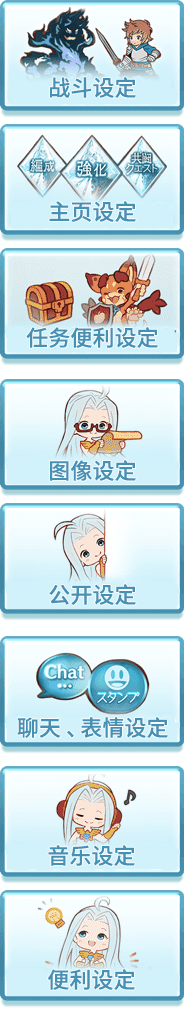
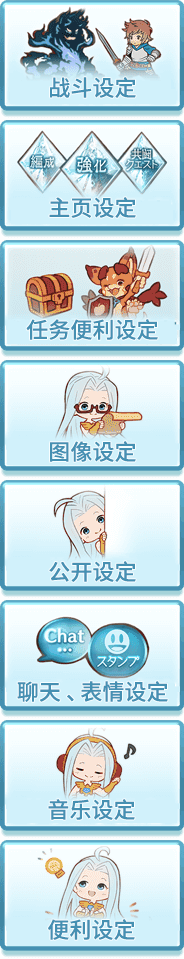
update

diff --git a/data/static/style/BLHXFY.css b/data/static/style/BLHXFY.css
@@ -564,3 +564,11 @@ body #cnt-room-index .prt-room-members .prt-view-menu .prt-global-chat-log .btn-
   background: url(/blhxfy/data/static/image/btn-chat-log-coop.png) no-repeat 0 1px;
   background-size: 265px 27px;
 }
+
+body .cnt-setting [id^=prt-setting-index] .btn-setting-graphics {
+  background: url(/blhxfy/data/static/image/setting-thumb.png?404) no-repeat 0 -189px;
+}
+
+body .cnt-setting [id^=prt-setting-index] .location-href {
+  background-size: 92px auto;
+}
